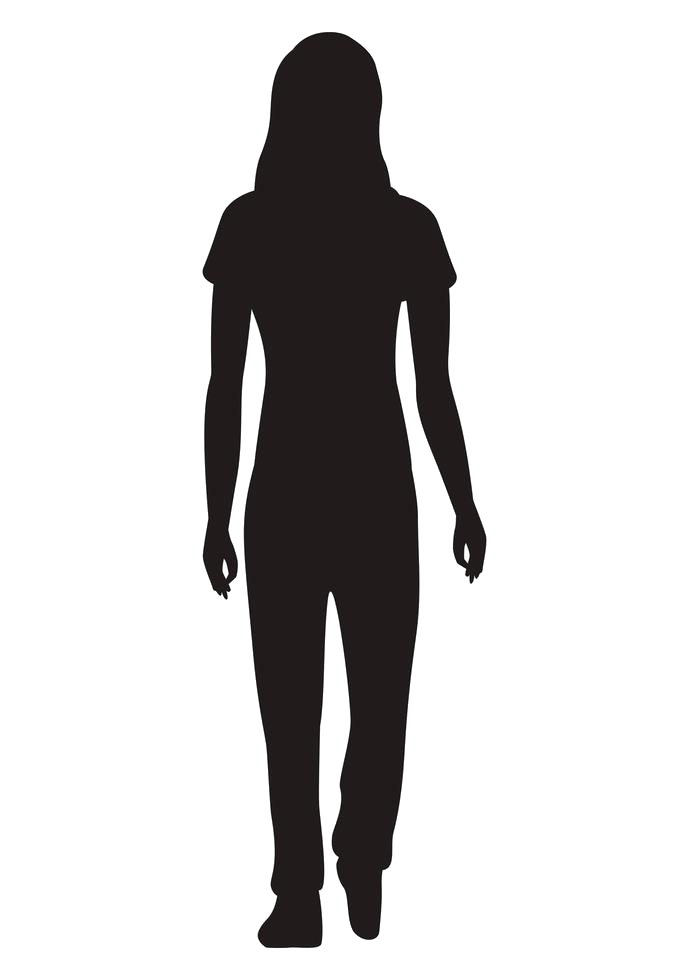
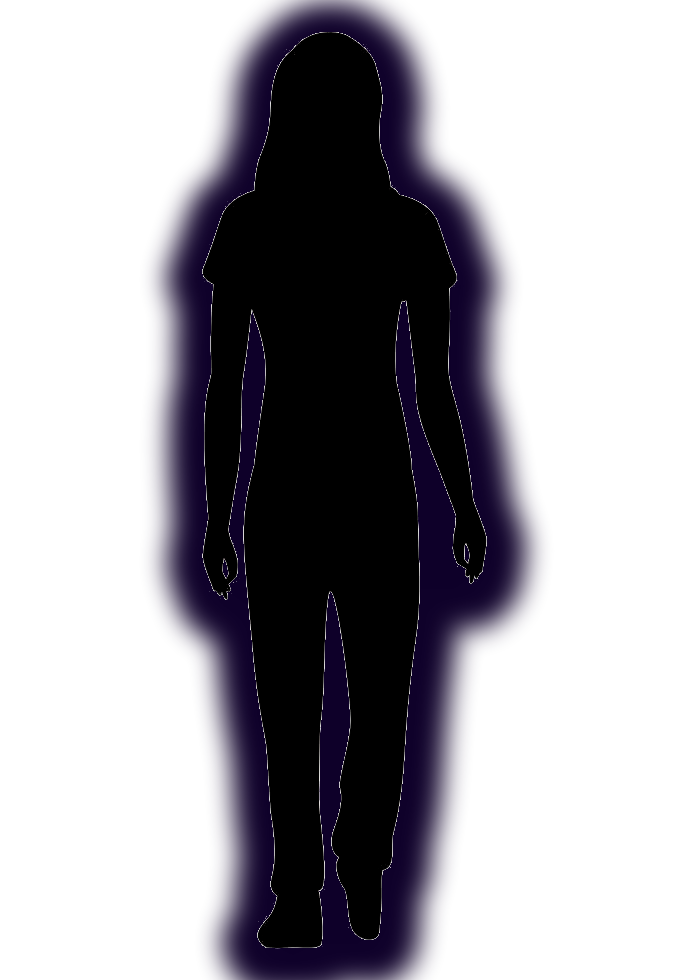
final

diff --git a/PointAndClick/Dia3.js b/PointAndClick/Dia3.js
@@ -55,14 +55,17 @@ function escribirTexto(textoCompleto) {
 }
 
 //Funcion para escribir texto que solo saldrá una vez
-function escribirTexto2(textoCompleto2) {
-  if (indice2 < textoCompleto2.length) {
-    mensaje.style.color = 'blue';
-    mensaje.innerText += textoCompleto2[indice2];
-    indice2++;
-    setTimeout(() => escribirTexto2(textoCompleto2, indice2), 100); // Llamada recursiva con el texto y el nuevo índice
+function escribirTexto2(textoCompleto) {
+  if (indice < textoCompleto.length) {
+    mensaje.style.color = 'purple';
+    mensaje.innerText += textoCompleto[indice];
+    indice++;
+    setTimeout(() => escribirTexto(textoCompleto, indice), 60); // Llamada recursiva con el texto y el nuevo índice
+  }else {
+    escribiendo = false; // Permitir otro clic cuando termina de escribir
   }
-}  
+}
+
 //Botones y objetos disponibles/inactivos
 const mensaje = document.getElementById('mensaje');
 mensaje.style.display = 'none';
@@ -101,10 +104,15 @@ Cuadro.style.display = 'none';
 
 const Chaleco = document.getElementById('chaleco');
 Chaleco.style.display = 'none';
+
+const Silueta = document.getElementById('Silueta');
+Silueta.style.display = 'none';
+
 let IraLiving = 1;
 
 const audio2 = new Audio('AudioLLamada.mp3');
 const ARadio = new Audio('AudiosLLamadas/ARadio.mp3');
+const AHija = new Audio('AudiosLLamadas/8.mp3');
 audio2.volume = 0.3;
 audio2.loop = true;
 
@@ -179,7 +187,7 @@ Button.addEventListener('click', function() {
     volver.style.display = 'block';
     IrLiving.style.display = 'block';
     IrCocina.style.display = 'block';
-    //IrAfuera.style.display = 'none';
+    IrAfuera.style.display = 'none';
     mensaje.innerText = ''; // Limpia el texto anterior
     // Cargar la nueva escena
   loadScene(currentScene); 
@@ -193,7 +201,7 @@ IrLiving.addEventListener('click', function() {
   IrCocina.style.display = 'none';
  //   video.style.display = 'none';
  if(IraLiving==1){
-  //IrAfuera.style.display = 'none';
+  IrAfuera.style.display = 'none';
   audio.volume = 0.4;
   ARadio.play();
   if (!escribiendo) { // Solo continuar si no está escribiendo
@@ -206,8 +214,9 @@ IrLiving.addEventListener('click', function() {
        escribirTexto("  ¿Robos en el barrio?, ¿Y Marta está allá afuera? ¡Tengo que avisarle!");
        volver.style.display = 'block';
        audio.volume = 1.0;
-       //IrAfuera.style.display = 'block';
+       IrAfuera.style.display = 'block';
      });
+     
      IraLiving=2;
      
  }
@@ -218,13 +227,68 @@ IrCocina.addEventListener('click', function() {
   currentScene = 3;
   //Ocultar y Mostrar elementos correspondientes
   volver.style.display = 'block';
-  //IrAfuera.style.display = 'none';
+  IrAfuera.style.display = 'none';
   IrLiving.style.display = 'none';
   IrCocina.style.display = 'none';
   mensaje.innerText = ''; // Limpia el texto anterior
   // Cargar la nueva escena
 loadScene(currentScene); 
 });
+
+let clickAfuera = 0;
+IrAfuera.addEventListener('click', function() {
+  //Ocultar y Mostrar elementos correspondientes
+  volver.style.display = 'none';
+  IrAfuera.style.display = 'block';
+  IrLiving.style.display = 'none';
+  IrCocina.style.display = 'none';
+  EfectoRadio.style.display = 'none';
+
+  if (!escribiendo && clickAfuera == 0) {
+
+    escribiendo = true;
+    mensaje.innerText = ''; // Limpia el texto anterior
+    indice = 0; // Reinicia el índice para el efecto
+    textoCompleto = "¿Alguien entró?";
+    escribirTexto(textoCompleto); // Inicia el efecto de escritura
+    clickAfuera++;
+    }    
+    if (!escribiendo && clickAfuera == 1) {
+    Silueta.style.display = 'block';
+    escribiendo = true;
+    mensaje.innerText = ''; // Limpia el texto anterior
+    indice = 0; // Reinicia el índice para el efecto
+    textoCompleto = "¿Quién está ahí?";
+    escribirTexto(textoCompleto); // Inicia el efecto de escritura
+    clickAfuera++;
+    }   
+    if (!escribiendo && clickAfuera == 2) {
+    escribiendo = true;
+    mensaje.innerText = ''; // Limpia el texto anterior
+    indice = 0; // Reinicia el índice para el efecto
+    textoCompleto = "¡Me están Robando!";
+    escribirTexto(textoCompleto); // Inicia el efecto de escritura
+    clickAfuera++;
+    } 
+    if (!escribiendo && clickAfuera == 3) {
+      escribiendo = true;
+      mensaje.innerText = ''; // Limpia el texto anterior
+      indice = 0; // Reinicia el índice para el efecto
+      textoCompleto = "Papá... ¡Soy yo!";
+      AHija.play();
+      escribirTexto2(textoCompleto); // Inicia el efecto de escritura
+      clickAfuera++;
+      } 
+    if (!escribiendo && clickAfuera == 4) {
+    escribiendo = true;
+    mensaje.innerText = ''; // Limpia el texto anterior
+    indice = 0; // Reinicia el índice para el efecto
+    textoCompleto = "";
+    escribirTexto(textoCompleto); // Inicia el efecto de escritura
+    clickAfuera = 0;
+    } 
+});
+
         //Click en Cuadro de esposa
         let clickCuadro = 0;
         Cuadro.addEventListener('click', function() {
@@ -260,7 +324,7 @@ volver.addEventListener('click', function() {
       Button.style.display = 'block';
       Cuadro.style.display = 'block';
       Sudoku.style.display = 'block';
-      //IrAfuera.style.display = 'none';
+      IrAfuera.style.display = 'none';
       IrLiving.style.display = 'none';
       IrCocina.style.display = 'none';
       mensaje.innerText = '';
@@ -280,6 +344,14 @@ volver.addEventListener('click', function() {
       volver.style.display = 'block'; 
       IrLiving.style.display = 'block';
       IrCocina.style.display = 'block';
+      EfectoRadio.style.display = 'none';
+      mensaje.innerText = '';
+    }
+    if(currentScene==4){
+      currentScene = 1;
+      volver.style.display = 'none'; 
+      IrLiving.style.display = 'none';
+      IrCocina.style.display = 'none';
       EfectoRadio.style.display = 'none';
       mensaje.innerText = '';
     }

diff --git a/PointAndClick/Dia2.js b/PointAndClick/Dia2.js
@@ -262,19 +262,11 @@ if(Cocina == 1){
               escribiendo = true;
               mensaje.innerText = ''; // Limpia el texto anterior
               indice = 0; // Reinicia el índice para el efecto
-              textoCompleto = "Marta...";
+              textoCompleto = "Marta... Te extraño tanto amor mío.";
               escribirTexto(textoCompleto); // Inicia el efecto de escritura
               clickCuadro++;
-          }   
-          if (!escribiendo && clickCuadro == 1) {
-            escribiendo = true;
-            mensaje.innerText = ''; // Limpia el texto anterior
-            indice = 0; // Reinicia el índice para el efecto
-            textoCompleto = "Te extraño tanto amor mío.";
-            escribirTexto(textoCompleto); // Inicia el efecto de escritura
-            clickCuadro++;
-        }   
-        if (!escribiendo && clickCuadro == 2) {
+          }    
+        if (!escribiendo && clickCuadro == 1) {
           escribiendo = true;
           mensaje.innerText = ''; // Limpia el texto anterior
           indice = 0; // Reinicia el índice para el efecto
@@ -282,7 +274,7 @@ if(Cocina == 1){
           escribirTexto(textoCompleto); // Inicia el efecto de escritura
           clickCuadro++;
       }   
-      if (!escribiendo && clickCuadro == 2) {
+      if (!escribiendo && clickCuadro == 3) {
         escribiendo = true;
         mensaje.innerText = ''; // Limpia el texto anterior
         indice = 0; // Reinicia el índice para el efecto
@@ -290,7 +282,7 @@ if(Cocina == 1){
         escribirTexto(textoCompleto); // Inicia el efecto de escritura
         clickCuadro++;
     } 
-      if (!escribiendo && clickCuadro == 3) {
+      if (!escribiendo && clickCuadro == 4) {
         escribiendo = true;
         mensaje.innerText = ''; // Limpia el texto anterior
         indice = 0; // Reinicia el índice para el efecto

diff --git a/PointAndClick/Dia3.html b/PointAndClick/Dia3.html
@@ -19,6 +19,7 @@
     <img id="Sudoku" src="sudoku0.png" alt="Sudoku" />
     <img id="Celu" src="Celu.png" alt="Celu" />
     <img id="EfectoRadio" src="efectoradio.png" alt="EfectoRadio" />
+    <img id="Silueta" src="silueta.png" alt="Silueta" />
     <button id="boton-estilizado" class="boton-estilizado"></button>
     <button id="IrLiving" class="IrLiving"></button>
     <button id="IrAfuera" class="IrAfuera"></button>

diff --git a/PointAndClick/styles.css b/PointAndClick/styles.css
@@ -306,6 +306,7 @@ body {
   top: 48%;
   left: 76%;
 }
+
 #pastillas {
   position: absolute;
   width: 10%;
@@ -313,3 +314,10 @@ body {
   top: 80%;
   left: 10%;
 }
+
+#Silueta {
+  position: absolute;
+  height: 40%;
+  right: 19%;
+}
+
